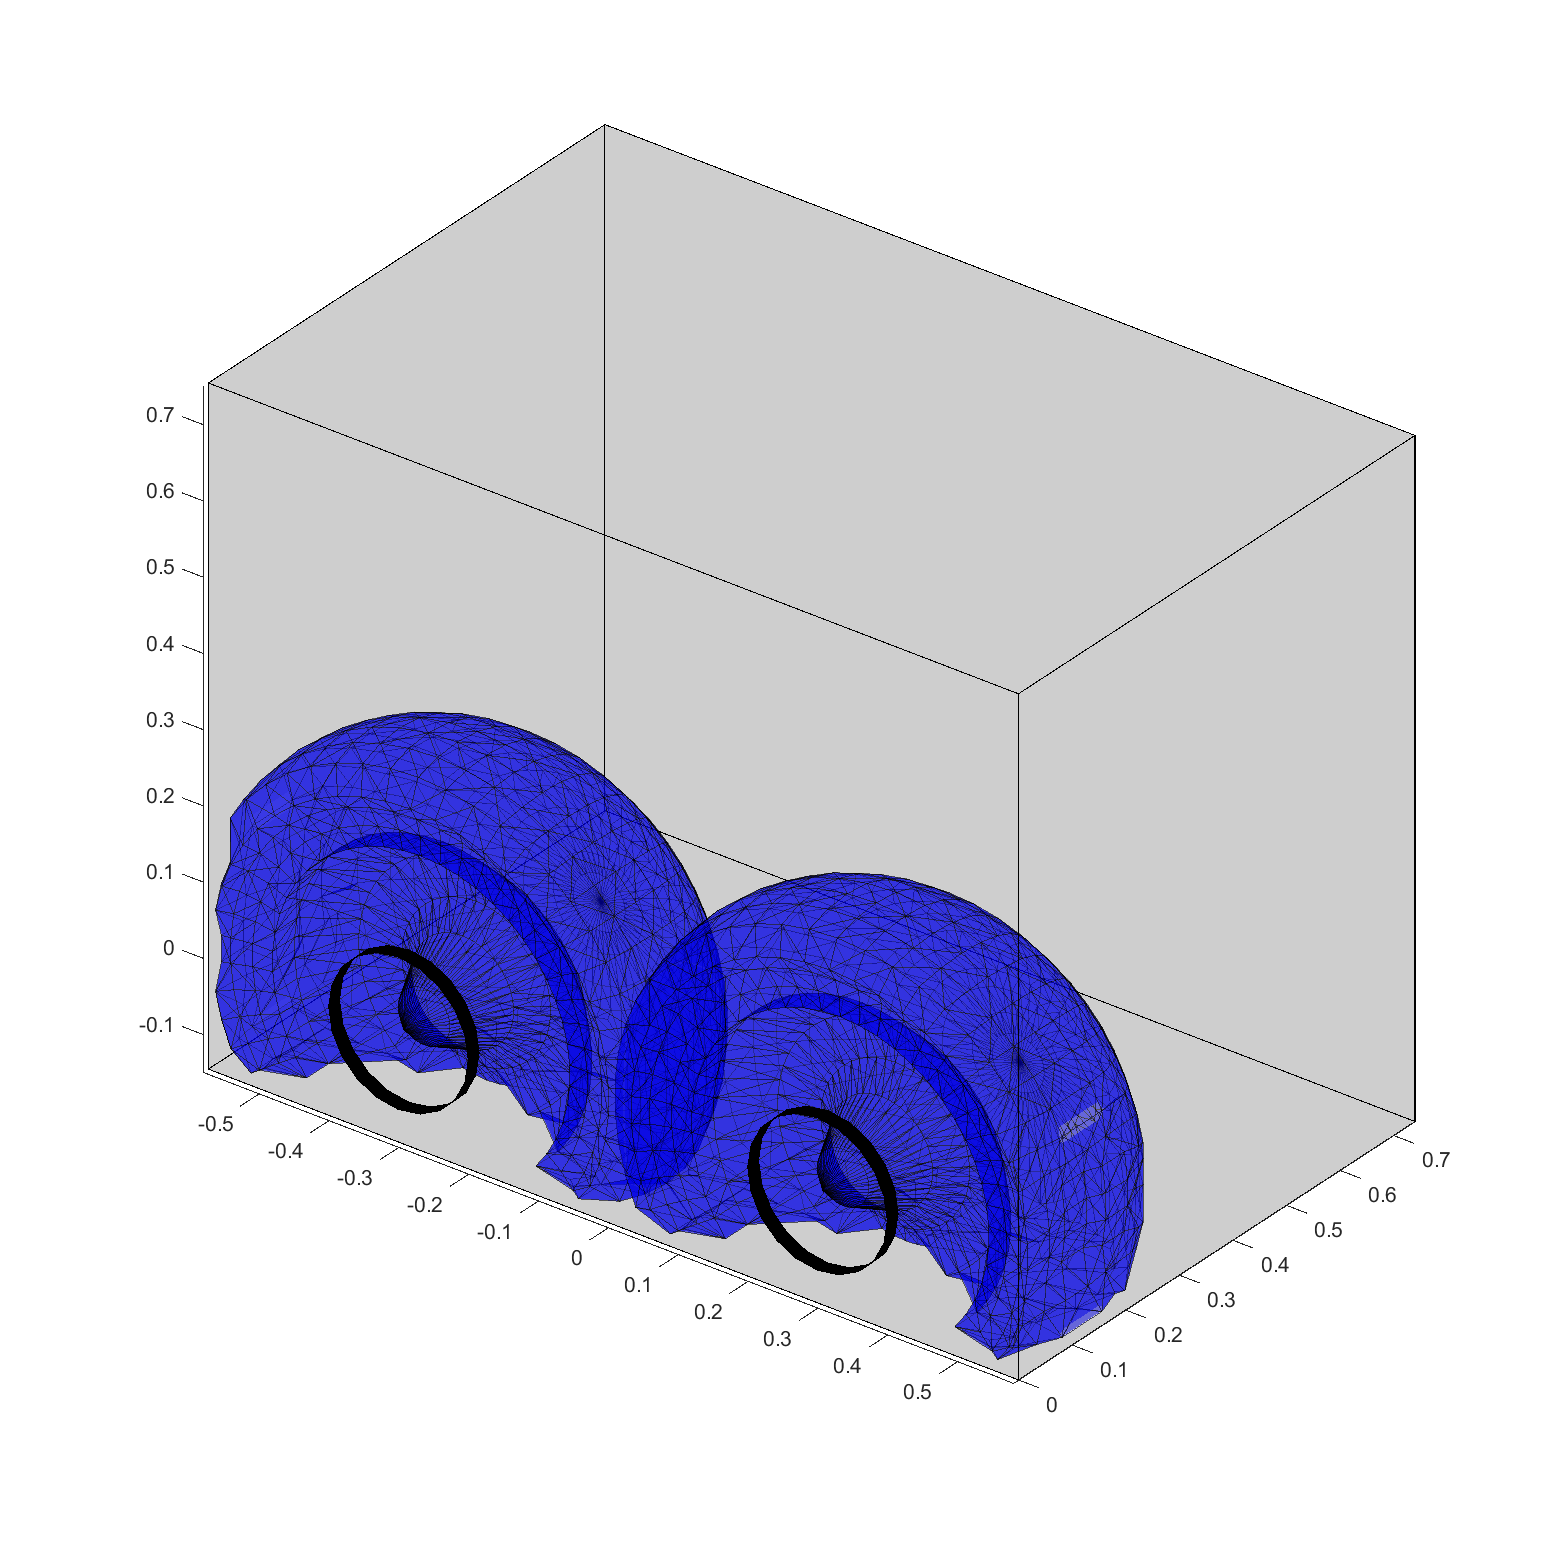
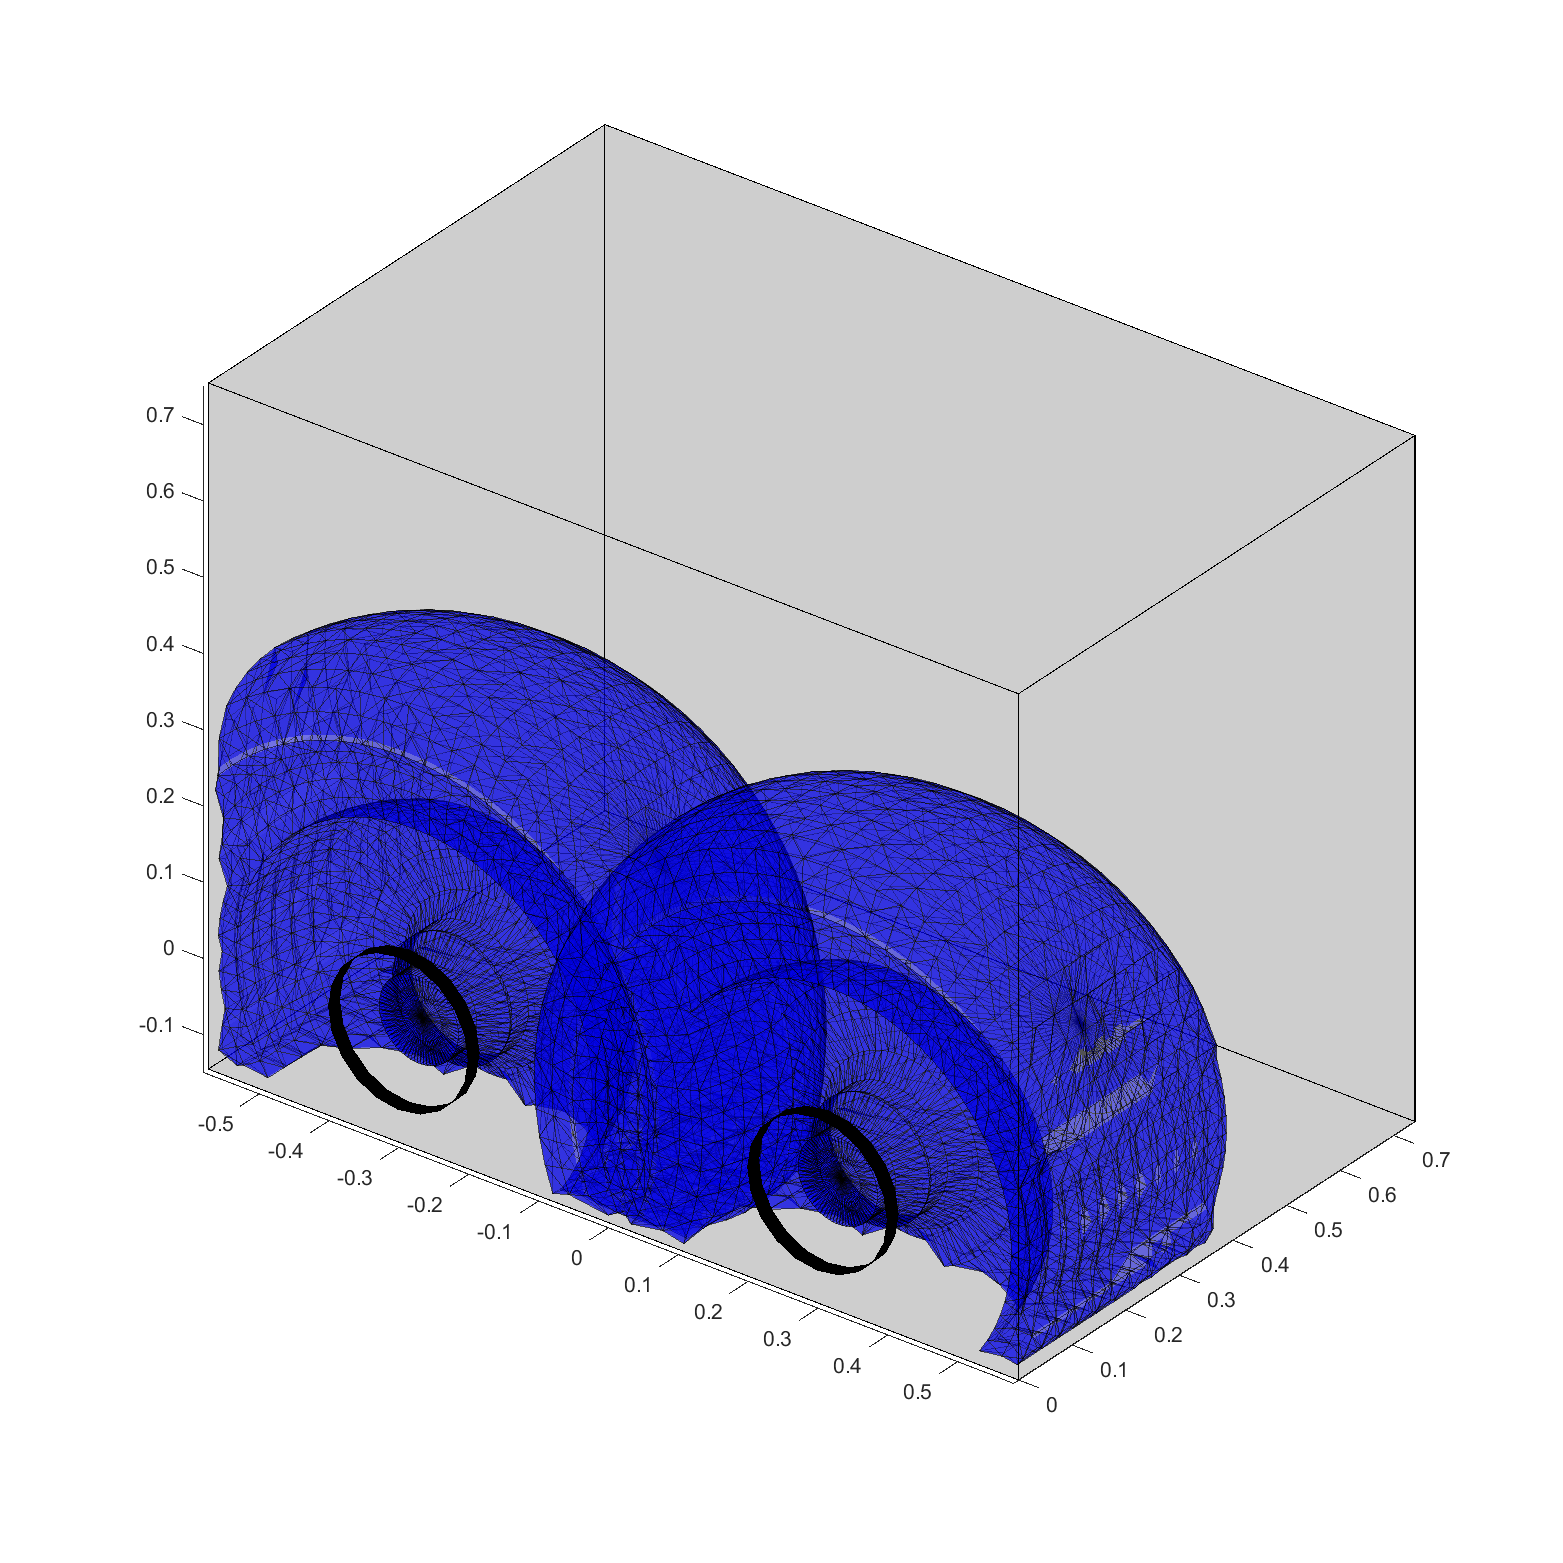
Updated test_model.m, new images for report

Changed region(s): [[0.1228, 0.3685, 0.7985, 0.8906]]

diff --git a/test_model.m b/test_model.m
@@ -1,4 +1,4 @@
-addpath("models", "output");
+addpath("models", "output", "misc");
 
 gbox.w = 1.16;
 gbox.d = 0.74;
@@ -9,13 +9,13 @@ gbox.d_collar = 0.2;
 gbox.t_collar = 0.02;
 
 arm = ValkArm;
-arm.red = 1;
+arm.red = 0;
 
 % arm.lens = [0 0 0 0 0.155 0 0.05 0.163];
 % arm.dias = [0 0 0 0 0.100 0 0.100 0.100];
 
-arm.lens = [0 0 0 0 0.23 0 0.07 0];
-arm.dias = [0 0 0 0 0.135 0 0.09 0];
+arm.lens = [0 0 0 0 0.225 0 0.080 0.175];
+arm.dias = [0 0 0 0 0.077 0 0.069 0.070];
 
 arm.rbt = def_old(arm.lens, arm.red);
 
@@ -46,9 +46,9 @@ if arm.red
     config(2).JointPosition = deg2rad(40) + bAct3.HomePosition;
     config(3).JointPosition = deg2rad(15) + act2.HomePosition;
 else
-    config(1).JointPosition = -0.1 + bAct2.HomePosition;
-    config(2).JointPosition = deg2rad(10) + bAct3.HomePosition;
-    config(3).JointPosition = deg2rad(10) + bAct4.HomePosition;
+    config(1).JointPosition = -0.07 + bAct2.HomePosition;
+    config(2).JointPosition = deg2rad(20) + bAct3.HomePosition;
+    config(3).JointPosition = deg2rad(20) + bAct4.HomePosition;
     config(4).JointPosition = deg2rad(-30) + act1.HomePosition;
     config(5).JointPosition = deg2rad(30) + act2.HomePosition;
     config(6).JointPosition = deg2rad(30) + act3.HomePosition;
